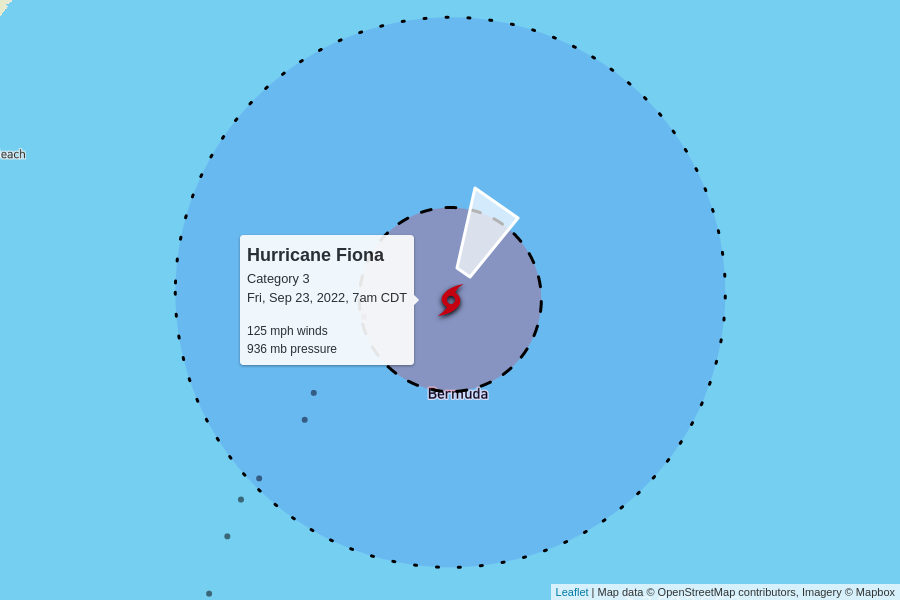
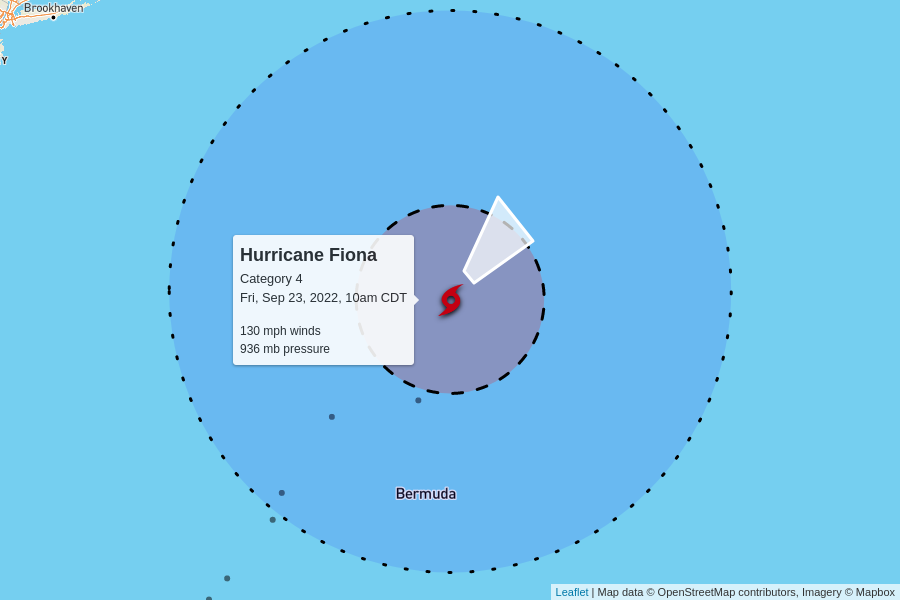
automatic update

diff --git a/docs/index.html b/docs/index.html
@@ -97,10 +97,10 @@
 
     <table>
       <tr>
-        <td colspan="6" class="storm category-3" >
+        <td colspan="6" class="storm category-4" >
           <h2>
-            Hurricane Fiona - Category 3
-            <p class="updated">last updated <span data-time>2022-09-23T12:00:00.000Z</span></p>
+            Hurricane Fiona - Category 4
+            <p class="updated">last updated <span data-time>2022-09-23T15:00:00.000Z</span></p>
           </h2>
         </td>
       </tr>
@@ -115,12 +115,12 @@
       </tr>
       <tr>
         <td class="spacer"></td>
-        <td>125 mph</td>
+        <td>130 mph</td>
         <td>936 mb</td>
         <td>
-          25 mph to the north-northeast
+          35 mph to the northeast
           <br/>
-          <span style="display: inline-block; font-size: 1.5em; transform: rotate(30deg);">↑</span>
+          <span style="display: inline-block; font-size: 1.5em; transform: rotate(45deg);">↑</span>
         </td>
         <td><a href="https://raw.githubusercontent.com/mgwalker/atlantic-hurricanes/main/data/csv/AL072022.csv">AL072022.csv</a></td>
         <td><a href="https://www.nhc.noaa.gov/archive/2022/FIONA.shtml?">NHC advisories</a></td>
@@ -144,7 +144,7 @@
         <td colspan="6" class="storm category-0" >
           <h2>
             Tropical Storm Gaston
-            <p class="updated">last updated <span data-time>2022-09-23T12:00:00.000Z</span></p>
+            <p class="updated">last updated <span data-time>2022-09-23T15:00:00.000Z</span></p>
           </h2>
         </td>
       </tr>
@@ -159,8 +159,8 @@
       </tr>
       <tr>
         <td class="spacer"></td>
-        <td>60 mph</td>
-        <td>999 mb</td>
+        <td>65 mph</td>
+        <td>995 mb</td>
         <td>
           7 mph to the east-southeast
           <br/>
@@ -188,7 +188,7 @@
         <td colspan="6" class="storm category-0" >
           <h2>
             Tropical Depression Nine
-            <p class="updated">last updated <span data-time>2022-09-23T09:00:00.000Z</span></p>
+            <p class="updated">last updated <span data-time>2022-09-23T15:00:00.000Z</span></p>
           </h2>
         </td>
       </tr>
@@ -206,7 +206,7 @@
         <td>35 mph</td>
         <td>1006 mb</td>
         <td>
-          13 mph to the west-northwest
+          14 mph to the west-northwest
           <br/>
           <span style="display: inline-block; font-size: 1.5em; transform: rotate(290deg);">↑</span>
         </td>
@@ -218,6 +218,50 @@
         <td colspan="5">
           <figure>
             <img src="AL092022.png">
+            <figcaption>
+              Map data &copy; <a href="https://www.openstreetmap.org/copyright">OpenStreetMap</a> contributors,
+              Imagery &copy; <a href="https://www.mapbox.com/">Mapbox</a> |
+              <a href="https://www.mapbox.com/map-feedback/" target="_blank">Improve this map</a>
+            </figcaption>
+          </figure>
+        </td>
+      </tr>
+      
+
+      <tr>
+        <td colspan="6" class="storm category-0" >
+          <h2>
+            Tropical Depression Ten
+            <p class="updated">last updated <span data-time>2022-09-23T15:00:00.000Z</span></p>
+          </h2>
+        </td>
+      </tr>
+      
+      <tr>
+        <th class="spacer"></th>
+        <th>wind speed</th>
+        <th>central pressure</th>
+        <th>movement</th>
+        <th>data (CSV)</th>
+        <th>National Hurricane Center</th>
+      </tr>
+      <tr>
+        <td class="spacer"></td>
+        <td>35 mph</td>
+        <td>1003 mb</td>
+        <td>
+          12 mph to the north-northwest
+          <br/>
+          <span style="display: inline-block; font-size: 1.5em; transform: rotate(340deg);">↑</span>
+        </td>
+        <td><a href="https://raw.githubusercontent.com/mgwalker/atlantic-hurricanes/main/data/csv/AL102022.csv">AL102022.csv</a></td>
+        <td><a href="https://www.nhc.noaa.gov/archive/2022/TEN.shtml?">NHC advisories</a></td>
+      </tr>
+      <tr id="storm_AL102022" >
+        <td class="spacer">
+        <td colspan="5">
+          <figure>
+            <img src="AL102022.png">
             <figcaption>
               Map data &copy; <a href="https://www.openstreetmap.org/copyright">OpenStreetMap</a> contributors,
               Imagery &copy; <a href="https://www.mapbox.com/">Mapbox</a> |
